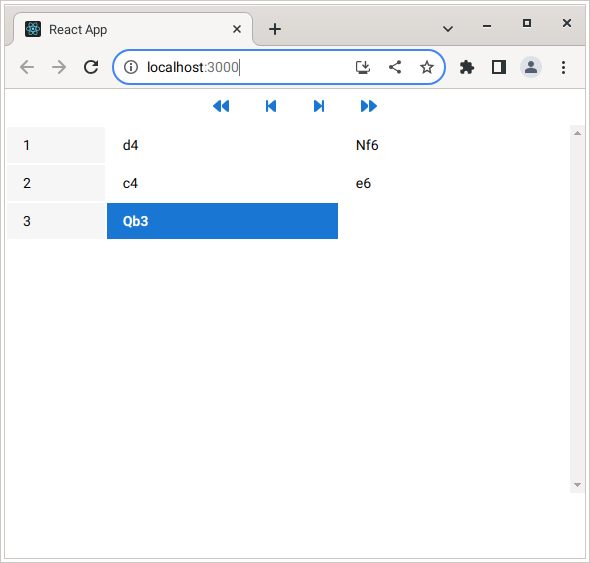
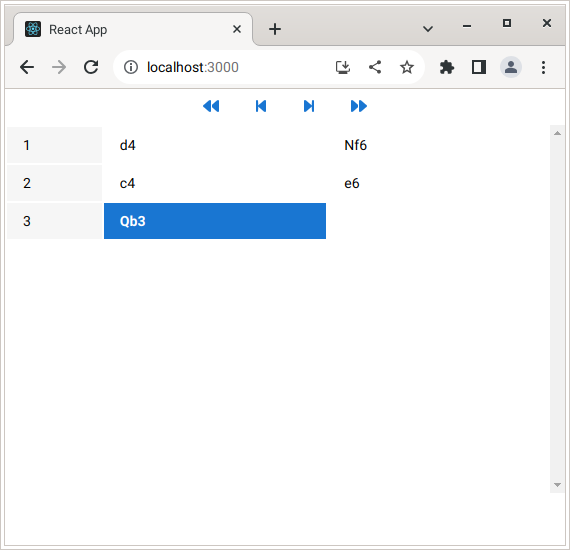
Improved the docs

diff --git a/src/MovesMetadataTable.js b/src/MovesMetadataTable.js
@@ -3,19 +3,19 @@ import styles from './styles/movesMetadataTable';
 export const MovesMetadataTable = ({ stateMovesMetadataTable }) => {
   if (Object.keys(stateMovesMetadataTable.metadata).length) {
     return (
-      <table>
+      <table cellspacing="0" style={styles.table}>
         <tbody>
-          <tr key={0} sx={styles.tr}>
-            <td align="left" sx={styles.td} >
+          <tr key={0}>
+            <td align="left" style={styles.td} >
               <b>{stateMovesMetadataTable.metadata.White}</b><br/>
               {stateMovesMetadataTable.metadata["White ELO"]}
             </td>
-            <td align="center" sx={styles.td}>
+            <td align="center" style={styles.td}>
               <b>{stateMovesMetadataTable.metadata.Result}</b><br/>
               {stateMovesMetadataTable.metadata.Event},  Rd {stateMovesMetadataTable.metadata.Round}<br/>
               {stateMovesMetadataTable.metadata.Site}, {stateMovesMetadataTable.metadata.Date}, {stateMovesMetadataTable.metadata.ECO}
             </td>
-            <td align="right" sx={styles.td}>
+            <td align="right" style={styles.td}>
               <b>{stateMovesMetadataTable.metadata.Black}</b><br/>
               {stateMovesMetadataTable.metadata["Black ELO"]}
             </td>

diff --git a/src/styles/movesMetadataTable.js b/src/styles/movesMetadataTable.js
@@ -1,6 +1,6 @@
 const styles = {
-  tr: {
-    background: '#f6f6f6',
+  table: {
+    width: '100%',
   },
   td: {
     fontSize: '0.8rem',

diff --git a/README.md b/README.md
@@ -160,7 +160,11 @@ Also you may want to display the chess opening that is being played at a certain
 - `stateOpeningTable` represents the state of the chess opening table.  
 
 ```js
-import { HistoryButtons, OpeningTable, SanMovesTable } from '@chesslablab/reactblab';
+import {
+  HistoryButtons,
+  OpeningTable,
+  SanMovesTable
+} from '@chesslablab/reactblab';
 
 function App() {
   const back = 0;
@@ -226,6 +230,114 @@ function App() {
 
 export default App;
 ```
+
+![Figure 4](/assets/figure_04.png)
+
+The same thing goes for the `MovesMetadataTable` which can be used to display data about a particular game as it is shown in the following example.
+
+```js
+import {
+  HistoryButtons,
+  MovesMetadataTable,
+  OpeningTable,
+  SanMovesTable
+} from '@chesslablab/reactblab';
+
+function App() {
+  const metadata = {
+    "Event": "World Championship 28th",
+    "Site":"Reykjavik",
+    "Date":"1972.??.??",
+    "White":"Spassky, Boris V",
+    "Black":"Fischer, Robert James",
+    "White ELO":"2660",
+    "Black ELO":"2785",
+    "Result":"1-0",
+    "ECO":"B97",
+  };
+
+  const back = 0;
+
+  const fen = [
+    "rnbqkbnr/pppppppp/8/8/8/8/PPPPPPPP/RNBQKBNR w KQkq -",
+    "rnbqkbnr/pppppppp/8/8/4P3/8/PPPP1PPP/RNBQKBNR b KQkq e3",
+    "rnbqkbnr/pp1ppppp/8/2p5/4P3/8/PPPP1PPP/RNBQKBNR w KQkq c6",
+    "rnbqkbnr/pp1ppppp/8/2p5/4P3/5N2/PPPP1PPP/RNBQKB1R b KQkq -",
+    "rnbqkbnr/pp2pppp/3p4/2p5/4P3/5N2/PPPP1PPP/RNBQKB1R w KQkq -",
+    "rnbqkbnr/pp2pppp/3p4/2p5/3PP3/5N2/PPP2PPP/RNBQKB1R b KQkq d3",
+    "rnbqkbnr/pp2pppp/3p4/8/3pP3/5N2/PPP2PPP/RNBQKB1R w KQkq -",
+    "rnbqkbnr/pp2pppp/3p4/8/3NP3/8/PPP2PPP/RNBQKB1R b KQkq -",
+    "rnbqkb1r/pp2pppp/3p1n2/8/3NP3/8/PPP2PPP/RNBQKB1R w KQkq -",
+    "rnbqkb1r/pp2pppp/3p1n2/8/3NP3/2N5/PPP2PPP/R1BQKB1R b KQkq -",
+    "rnbqkb1r/1p2pppp/p2p1n2/8/3NP3/2N5/PPP2PPP/R1BQKB1R w KQkq -",
+    "rnbqkb1r/1p2pppp/p2p1n2/6B1/3NP3/2N5/PPP2PPP/R2QKB1R b KQkq -",
+    "rnbqkb1r/1p3ppp/p2ppn2/6B1/3NP3/2N5/PPP2PPP/R2QKB1R w KQkq -",
+    "rnbqkb1r/1p3ppp/p2ppn2/6B1/3NPP2/2N5/PPP3PP/R2QKB1R b KQkq f3",
+    "rnb1kb1r/1p3ppp/pq1ppn2/6B1/3NPP2/2N5/PPP3PP/R2QKB1R w KQkq -",
+    "rnb1kb1r/1p3ppp/pq1ppn2/6B1/3NPP2/2N5/PPPQ2PP/R3KB1R b KQkq -",
+  ];
+
+  const movetext = "1.e4 c5 2.Nf3 d6 3.d4 cxd4 4.Nxd4 Nf6 5.Nc3 a6 6.Bg5 e6 7.f4 Qb6";
+
+  const opening = {
+    rows: [
+      {
+        eco: "B97",
+        name: "Sicilian Defense: Najdorf Variation, Poisoned Pawn Variation",
+        movetext: "1.e4 c5 2.Nf3 d6 3.d4 cxd4 4.Nxd4 Nf6 5.Nc3 a6 6.Bg5 e6 7.f4 Qb6",
+      },
+    ],
+  };
+
+  return (
+    <>
+      <MovesMetadataTable
+        stateMovesMetadataTable={{
+          metadata: metadata,
+        }}
+      />
+      <HistoryButtons
+        stateHistoryButtons={{
+          back: back,
+          fen: fen,
+        }}
+        onFastRewindClick={() => {
+          // Implement on fast rewind logic.
+        }}
+        onSkipPreviousClick={() => {
+          // Implement on skip previous logic.
+        }}
+        onSkipNextClick={() => {
+          // Implement on skip next logic.
+        }}
+        onFastForwardClick={() => {
+          // Implement on fast forward logic.
+        }}
+      />
+      <SanMovesTable
+        stateSanMovesTable={{
+          back: back,
+          fen: fen,
+          movetext: movetext,
+        }}
+        onCellClick={() => {
+          // Implement on cell click logic.
+        }}
+      />
+      <OpeningTable
+        stateOpeningTable={{
+          opening: opening,
+          fen: fen,
+        }}
+      />
+    </>
+  );
+}
+
+export default App;
+```
+
+![Figure 5](/assets/figure_05.png)
 
 #### Initialize a RAV Moves Table
 
@@ -340,7 +452,7 @@ function App() {
 export default App;
 ```
 
-![Figure 5](/assets/figure_05.png)
+![Figure 6](/assets/figure_06.png)
 
 The RAV reader displays the variation levels in different shades of gray. It is a 2D scrollable HTML table where the main line is shown in a white background color. The deeper the level, the darker the background color is displayed.
 
